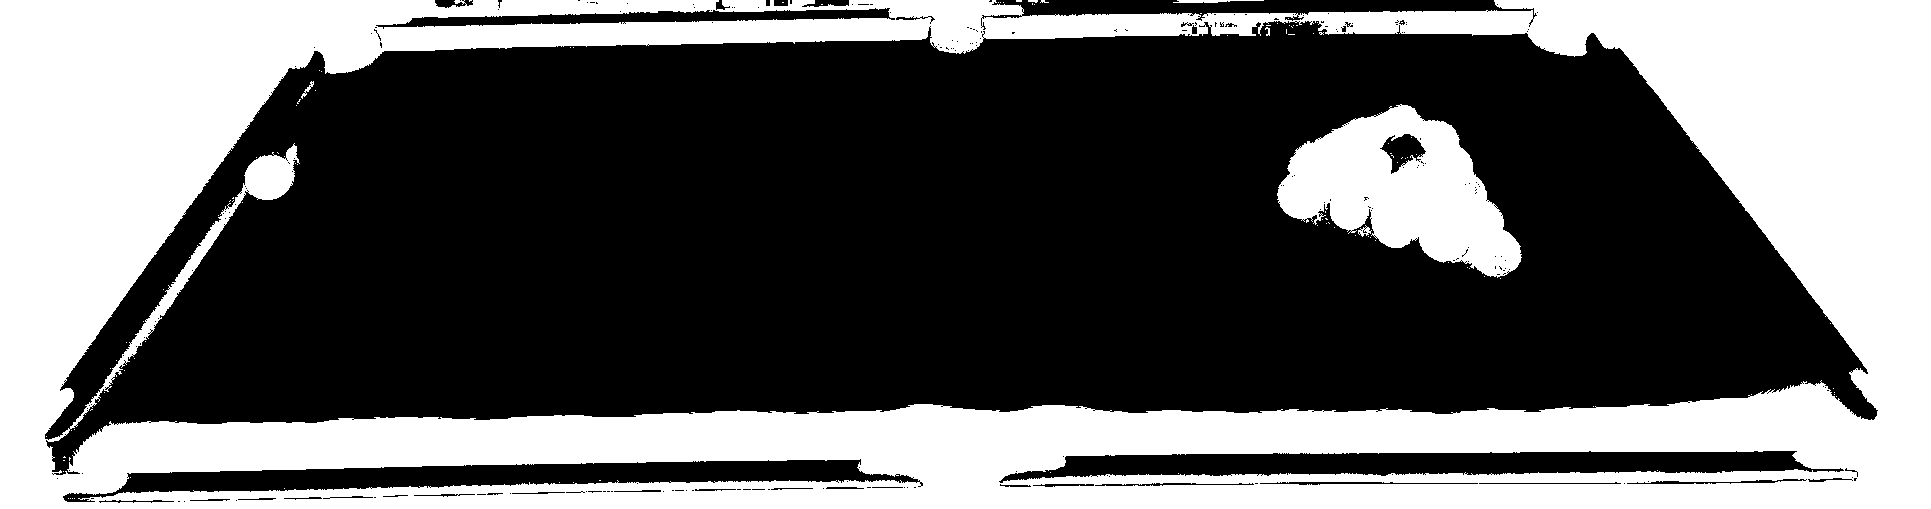
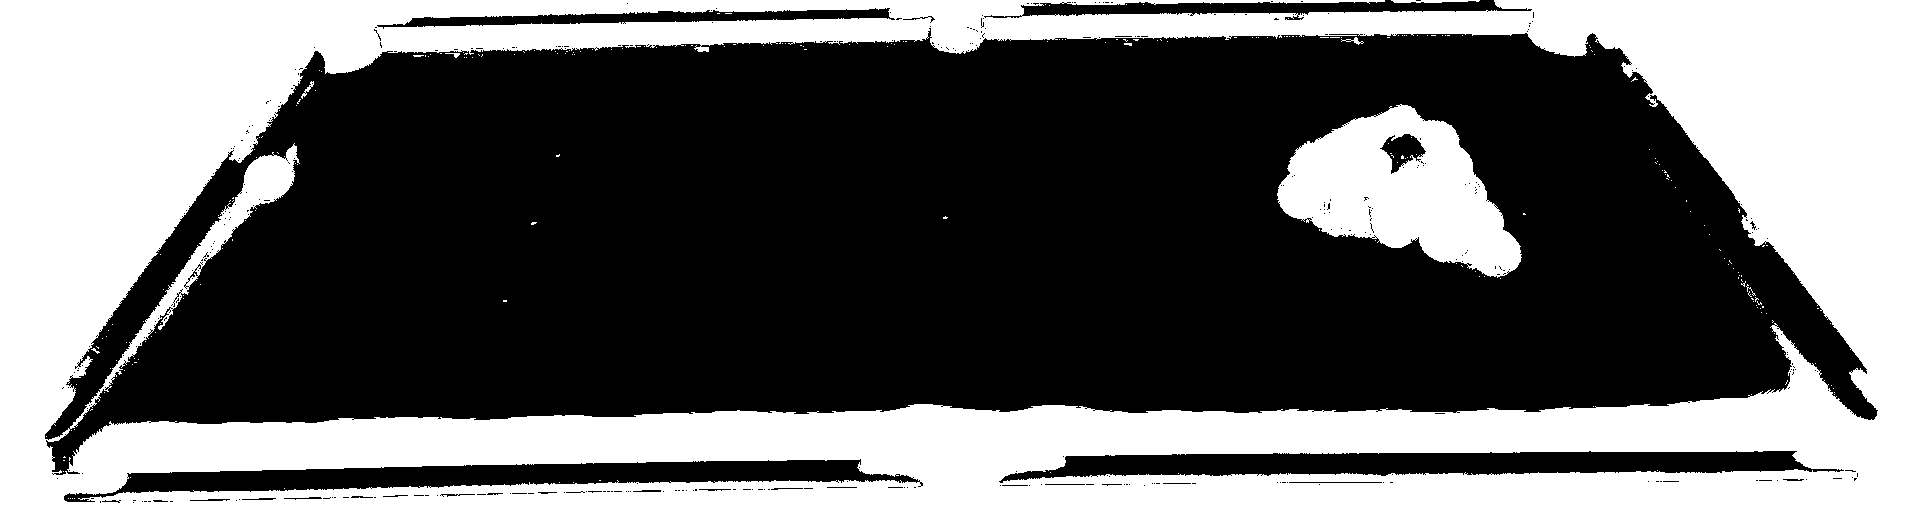
working on improving mask

diff --git a/MyApplication.cpp b/MyApplication.cpp
@@ -37,7 +37,7 @@ vector<Vec3f> findBalls(const Mat& original) {
 		1, //dp accymulator resolution
 		30, //min distance between circles
 		100, //param1: higher threshold for Canny edge detector  
-		10, //param2: threshold for center detection
+		8, //param2: threshold for center detection
 		15, //min radius
 		28 //max radius
 	);
@@ -183,24 +183,25 @@ int findBgHue(const Mat& hsv){
 
     return bgHue;
 }
-Mat segmentTable(const Mat & original){
 
-	//mean shift
+Mat segmentTable(const Mat& original) {
+
+    //mean shift
     Mat filtered;
     pyrMeanShiftFiltering(original, filtered, 10, 20, 1);
 
-	//hsv
-	Mat hsv;
+    //hsv
+    Mat hsv;
     cvtColor(filtered, hsv, COLOR_BGR2HSV);
 
-	//bg hue fn (uses hist)
-	int bgHue = findBgHue(hsv);
+    //bg hue fn (uses hist)
+    int bgHue = findBgHue(hsv);
 
-	//binary bg mask
-	const int HUE_TOLERANCE = 12;
-    Mat bgMask = Mat::zeros(hsv.size(), CV_8UC1);
+    //find average saturation of cloth-like pixels
+    const int HUE_TOLERANCE = 12; //TUNE
 
-	
+    Mat hueMask = Mat::zeros(hsv.size(), CV_8UC1);
+
     for (int y = 0; y < hsv.rows; y++) {
         for (int x = 0; x < hsv.cols; x++) {
 
@@ -210,13 +211,42 @@ Mat segmentTable(const Mat & original){
             difference = min(difference, 180 - difference);
 
             if (difference <= HUE_TOLERANCE) {
+                hueMask.at<uchar>(y, x) = 255;
+            }
+        }
+    }
+
+    Mat channels[3];
+    split(hsv, channels);
+
+    double bgSat = mean(channels[1], hueMask)[0];
+
+    //binary bg mask
+    const int SAT_TOLERANCE = 30; //TUNE
+    Mat bgMask = Mat::zeros(hsv.size(), CV_8UC1);
+
+    for (int y = 0; y < hsv.rows; y++) {
+        for (int x = 0; x < hsv.cols; x++) {
+
+            Vec3b pixel = hsv.at<Vec3b>(y, x);
+
+            int hue = pixel[0];
+            int saturation = pixel[1];
+
+            int difference = abs(hue - bgHue);
+            difference = min(difference, 180 - difference);
+
+            //classify as cloth if hue AND saturation are similar
+            if (difference <= HUE_TOLERANCE &&
+                abs(saturation - bgSat) <= SAT_TOLERANCE) {
+
                 bgMask.at<uchar>(y, x) = 255;
             }
         }
     }
 
-	//invert
-	Mat fgMask;
+    //invert
+    Mat fgMask;
     bitwise_not(bgMask, fgMask);
 
     return fgMask;
@@ -270,6 +300,20 @@ void MyApplication() {
 
 	//filter potential balls
 	vector<Vec3f> ballPositions = filterBalls(potential, fgMask);
+
+
+    //check raw Hough detections
+    Mat houghResult = original.clone();
+
+    for (const Vec3f& ball : potential) {
+
+        Point centre(cvRound(ball[0]), cvRound(ball[1]));
+
+        circle(houghResult, centre, 5, Scalar(0, 0, 255), FILLED);
+    }
+
+    imwrite("hough_result.png", houghResult);
+
     //draw detected ball positions
     Mat filtered = original.clone();
 
@@ -301,3 +345,4 @@ int main() {
 }
 
 //the transformation not being perfect, criticise gt
+//for the mask nexct is to maybe reduce the area we are histogramming
